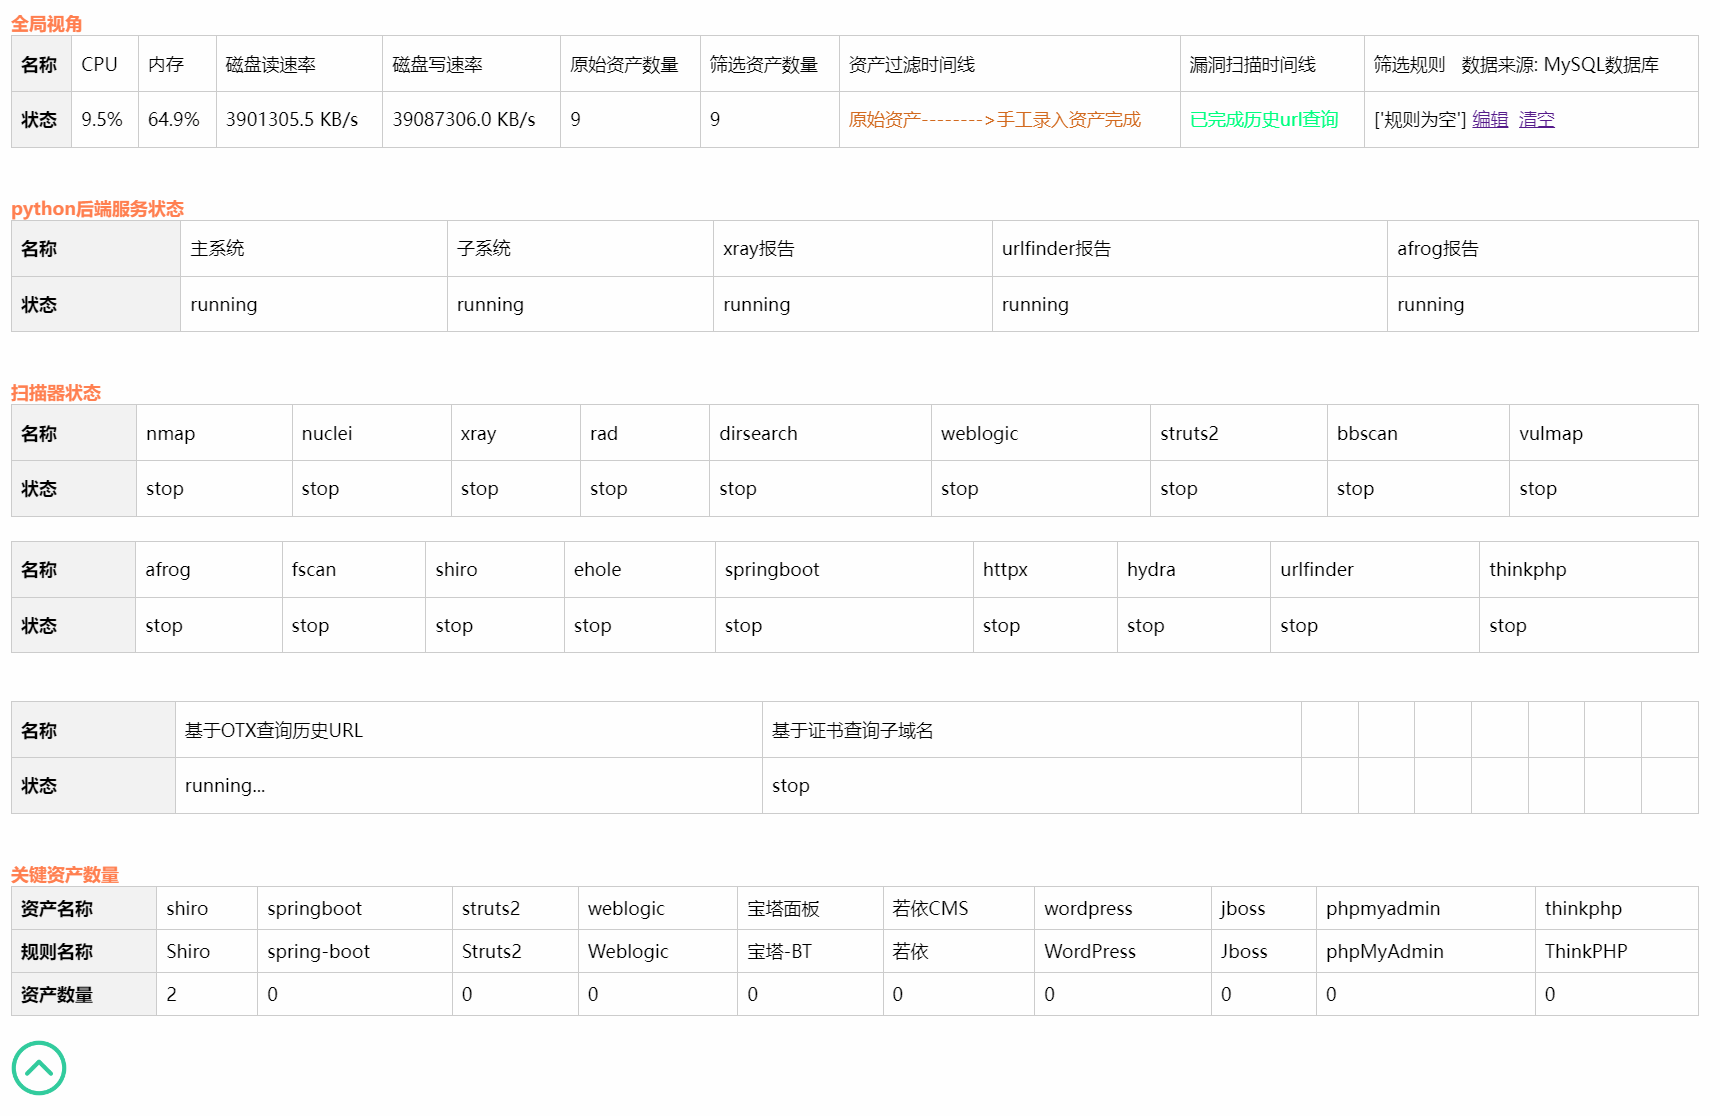
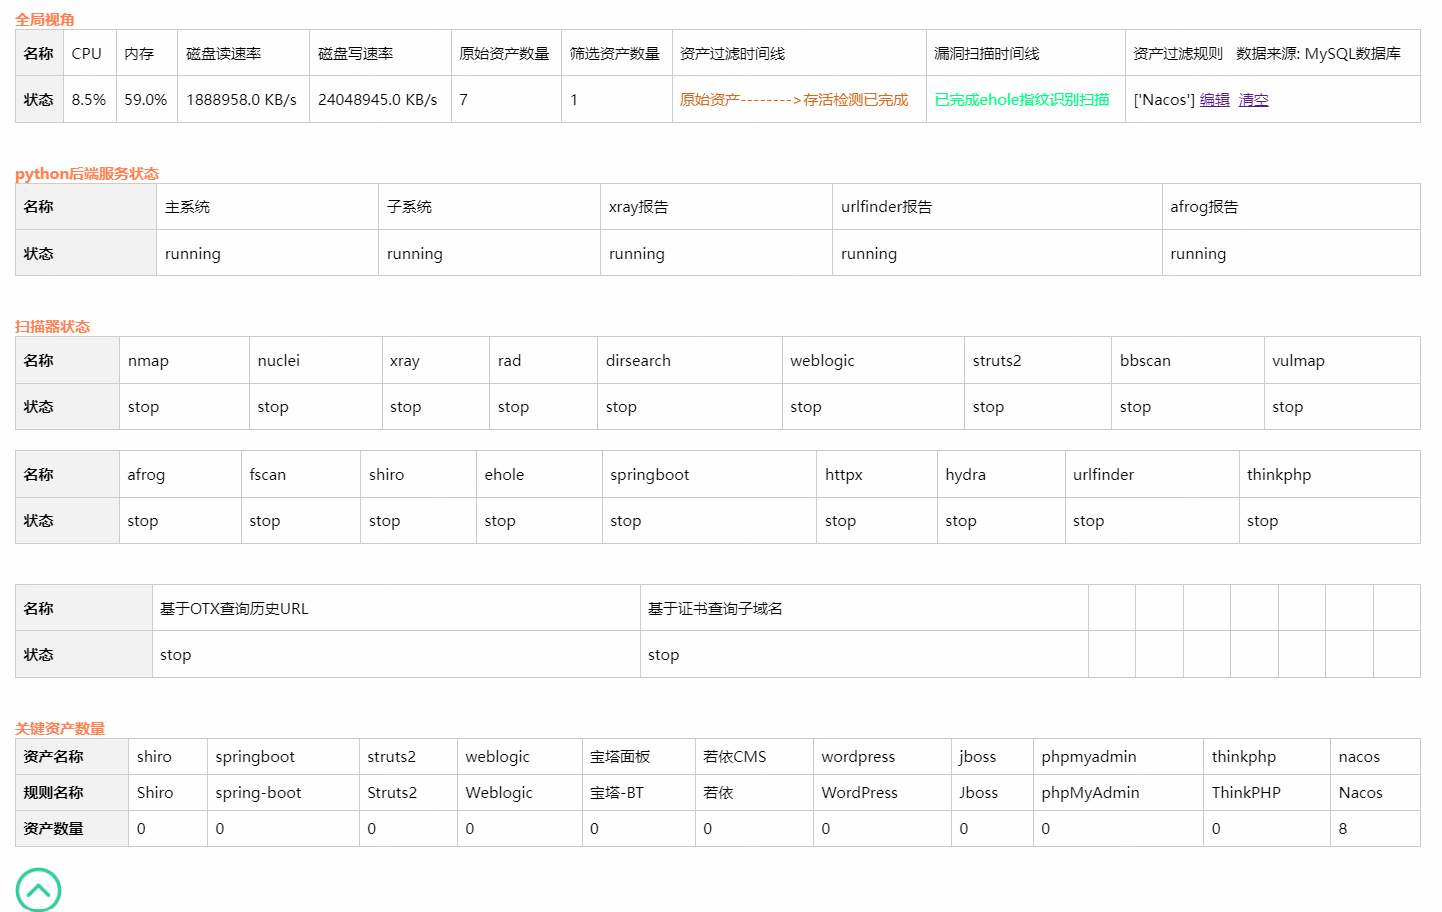
新增重点资产nacos数量查询

diff --git a/templates/index.html b/templates/index.html
@@ -76,7 +76,7 @@
 					<td>资产过滤时间线</td>
 					<td>漏洞扫描时间线</td>
 					<td>
-						筛选规则&nbsp;&nbsp;
+						资产过滤规则&nbsp;&nbsp;
 
 						<span id="spp31"></span>
 					</td>
@@ -228,6 +228,7 @@
 					<td>jboss</td>
 					<td>phpmyadmin</td>
 					<td>thinkphp</td>
+					<td>nacos</td>
 				</tr>
 				<!-- 规则名称 -->
 				<tr>
@@ -242,6 +243,7 @@
 					<td>Jboss</td>
 					<td>phpMyAdmin</td>
 					<td>ThinkPHP</td>
+					<td>Nacos</td>
 				</tr>
 				<tr>
 					<th>资产数量</th>
@@ -255,6 +257,7 @@
 					<td><span id="spp25"></span></td>
 					<td><span id="spp34"></span></td>
 					<td><span id="spp42"></span></td>
+					<td><span id="spp46"></span></td>
 				</tr>
 			</table><br>
 			<img src="{{ url_for('static', filename='image/zhedie.png') }}" width="50" height="50"

diff --git a/static/js/common.js b/static/js/common.js
@@ -1181,6 +1181,7 @@ function openModal() {
                 document.getElementById("spp43").innerHTML = info.thinkphpstatus;
                 document.getElementById("spp44").innerHTML = info.otx_status;
                 document.getElementById("spp45").innerHTML = info.crt_status;
+                document.getElementById("spp46").innerHTML = info.nacos_num;
             });
     }
 

diff --git a/scan_main_web.py b/scan_main_web.py
@@ -36,6 +36,7 @@ from config import WordPress_rule
 from config import jboss_rule
 from config import phpMyAdmin_rule
 from config import ThinkPHP_rule
+from config import nacos_rule
 from config import finger_list
 from config  import rule_options
 from config import dict
@@ -517,6 +518,7 @@ def systemmanagement():
         jboss_num = basic.key_point_assets_num(jboss_rule)
         phpmyadmin_num = basic.key_point_assets_num(phpMyAdmin_rule)
         ThinkPHP_num = basic.key_point_assets_num(ThinkPHP_rule)
+        nacos_num = basic.key_point_assets_num(nacos_rule)
 
         # cpu占用率
         cpu_percent = psutil.cpu_percent(interval=1)
@@ -608,7 +610,8 @@ def systemmanagement():
             "ThinkPHP_num":ThinkPHP_num,
             "thinkphpstatus":thinkphpstatus,
             "otx_status":otx_status,
-            "crt_status":crt_status
+            "crt_status":crt_status,
+            "nacos_num":str(nacos_num)
 
         }
         return jsonify(message_json)
@@ -1496,8 +1499,7 @@ def key_assets_withdraw():
     user = session.get('username')
     if str(user) == main_username:
 
-        # 筛选后资产时间线更新
-        basic.assets_status_update('识别重点资产已完成')
+        
         eholestatus = os.popen('bash ./finger.sh ehole_status').read()
         if "running" in eholestatus:
             key_assets_result = "指纹识别接口正在运行中请稍后再进行识别重点资产"
@@ -1519,7 +1521,8 @@ def key_assets_withdraw():
             basic.asset_by_rule_handle()
 
             key_assets_result = "已成功识别出重点资产"
-
+            # 筛选后资产时间线更新
+            basic.assets_status_update('识别重点资产已完成')
         
         message_json = {
             "key_assets_result":key_assets_result

diff --git a/config.py b/config.py
@@ -73,3 +73,4 @@ WordPress_rule = ["WordPress"]
 jboss_rule = ["Jboss"]
 phpMyAdmin_rule = ["phpMyAdmin"]
 ThinkPHP_rule = ["ThinkPHP"]
+nacos_rule = ["Nacos"]
